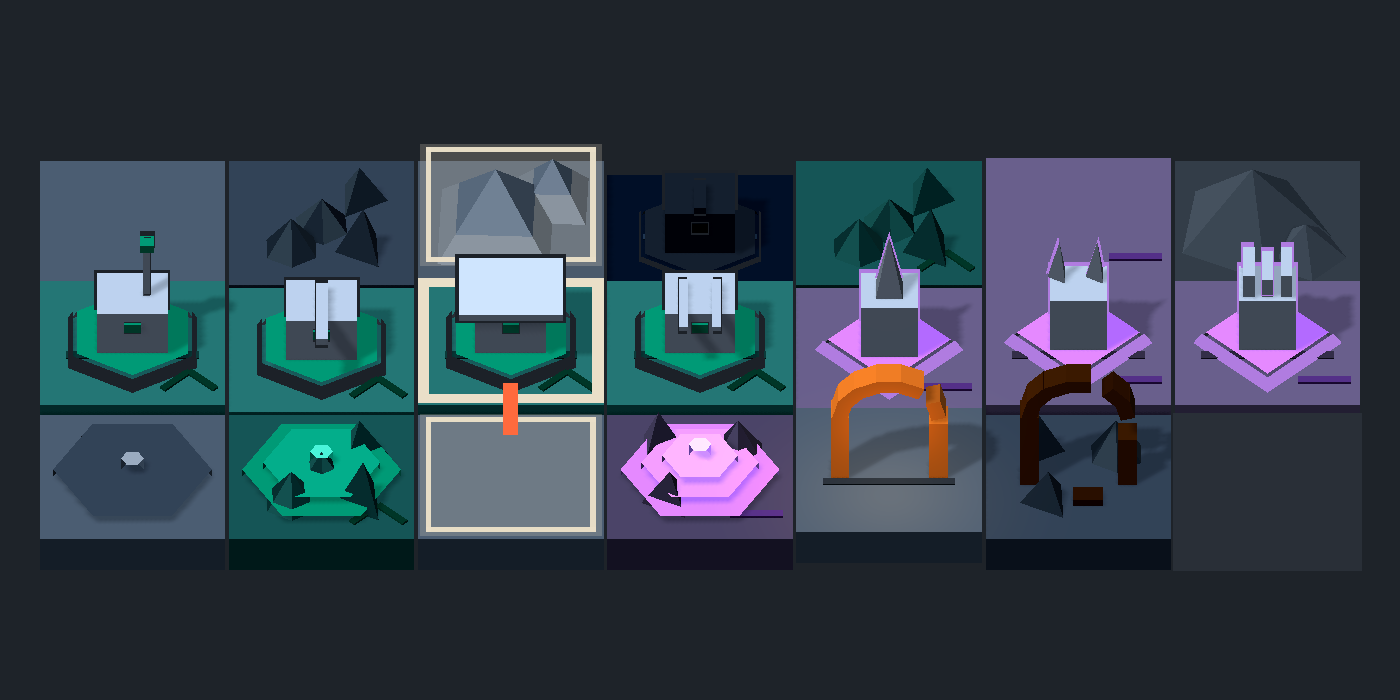
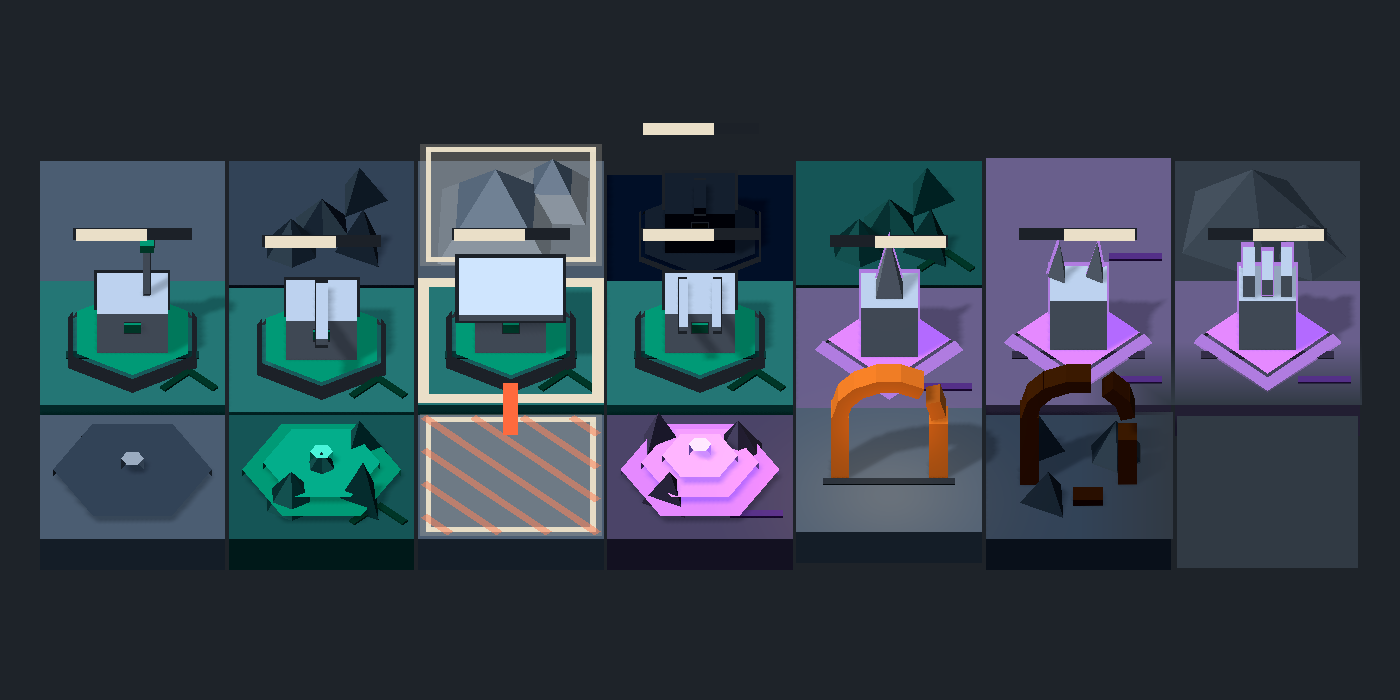
3D map: fog edge faded over half a tile, threat hatching at 135 degrees
- A discovered tile touching the unknown fades into the fog slab's colour over half a tile,
  per side and per outer corner (vertex-alpha fade shader); the map's edge is not fog.
  TileRenderer.sides_of / corners_of are now static, shared by the 2D and 3D maps.
- An announced threat hatches its target tile in orange-red at 135 degrees, under the units,
  besides the "!".
- Tests: fades on the right tiles and none toward the map's edge, hatching on the target,
  bands at 135 degrees inside the tile. ADR-0014 section 7; captures refreshed.

Claude-Session: https://claude.ai/code/session_01AuMRVQsjiz25XmzZk7cSKQ

diff --git a/docs/architecture/adr-0014-carte-3d-low-poly.md b/docs/architecture/adr-0014-carte-3d-low-poly.md
@@ -59,7 +59,9 @@ Le rendu 2D (textures de terrain, sprites teintés) est jugé mauvais par l'util
 
 **6. Branchement (2026-11-04).** `MatchScreen` crée la vue 3D (`use_3d`, vrai par défaut ; `set_3d(false)` remet le dessin 2D). La caméra logique reste `MapCamera` (centre, zoom, zone, recentrage) ; la vue 3D s'y cadre à chaque image. Un appui passe par `tile_under` (la projection orthographique de `MapView3D.tile_at`) ; un défilement vertical est divisé par sin(42°), parce que le sol incliné défile plus vite que l'écran. Jauge de PV blanche au-dessus de l'unité, pastille des unités qui n'ont pas joué, cadres orange-rouge des cibles, flèche des premiers tours qui oscille sauf en animations réduites.
 
-**Reste à faire** : la lisière du brouillard en fondu d'une demi-tuile ; les hachures de menace (le « ! » en tient lieu) ; `MultiMeshInstance3D` par terrain si la mesure le demande ; le serrage de `MapCamera` qui ignore l'inclinaison (la vue 3D recadre elle-même, avec une demi-tuile de marge).
+**7. Lisière et menaces (2026-11-04).** Une case découverte qui touche l'inconnu se fond dans le brouillard sur une demi-tuile : un dégradé de la couleur de la dalle de brouillard, opaque au bord, transparent au milieu (`fade.gdshader`, opacité par sommet), par côté et par coin extérieur, calculés par `TileRenderer.sides_of` et `corners_of` (partagés avec la 2D). Le bord de la carte n'est pas du brouillard. Une menace annoncée hachure sa case cible en orange-rouge à 135° (art bible 4), sous les unités, en plus du « ! ».
+
+**Reste à faire** : `MultiMeshInstance3D` par terrain si la mesure le demande ; le serrage de `MapCamera` qui ignore l'inclinaison (la vue 3D recadre elle-même, avec une demi-tuile de marge).
 
 ## Alternatives Considered
 - **Garder la 2D et refaire les textures** : moins de code, mais l'art bible demande la 3D et un artiste 2D pour tout redessiner ; rejeté par la demande de l'utilisateur.
